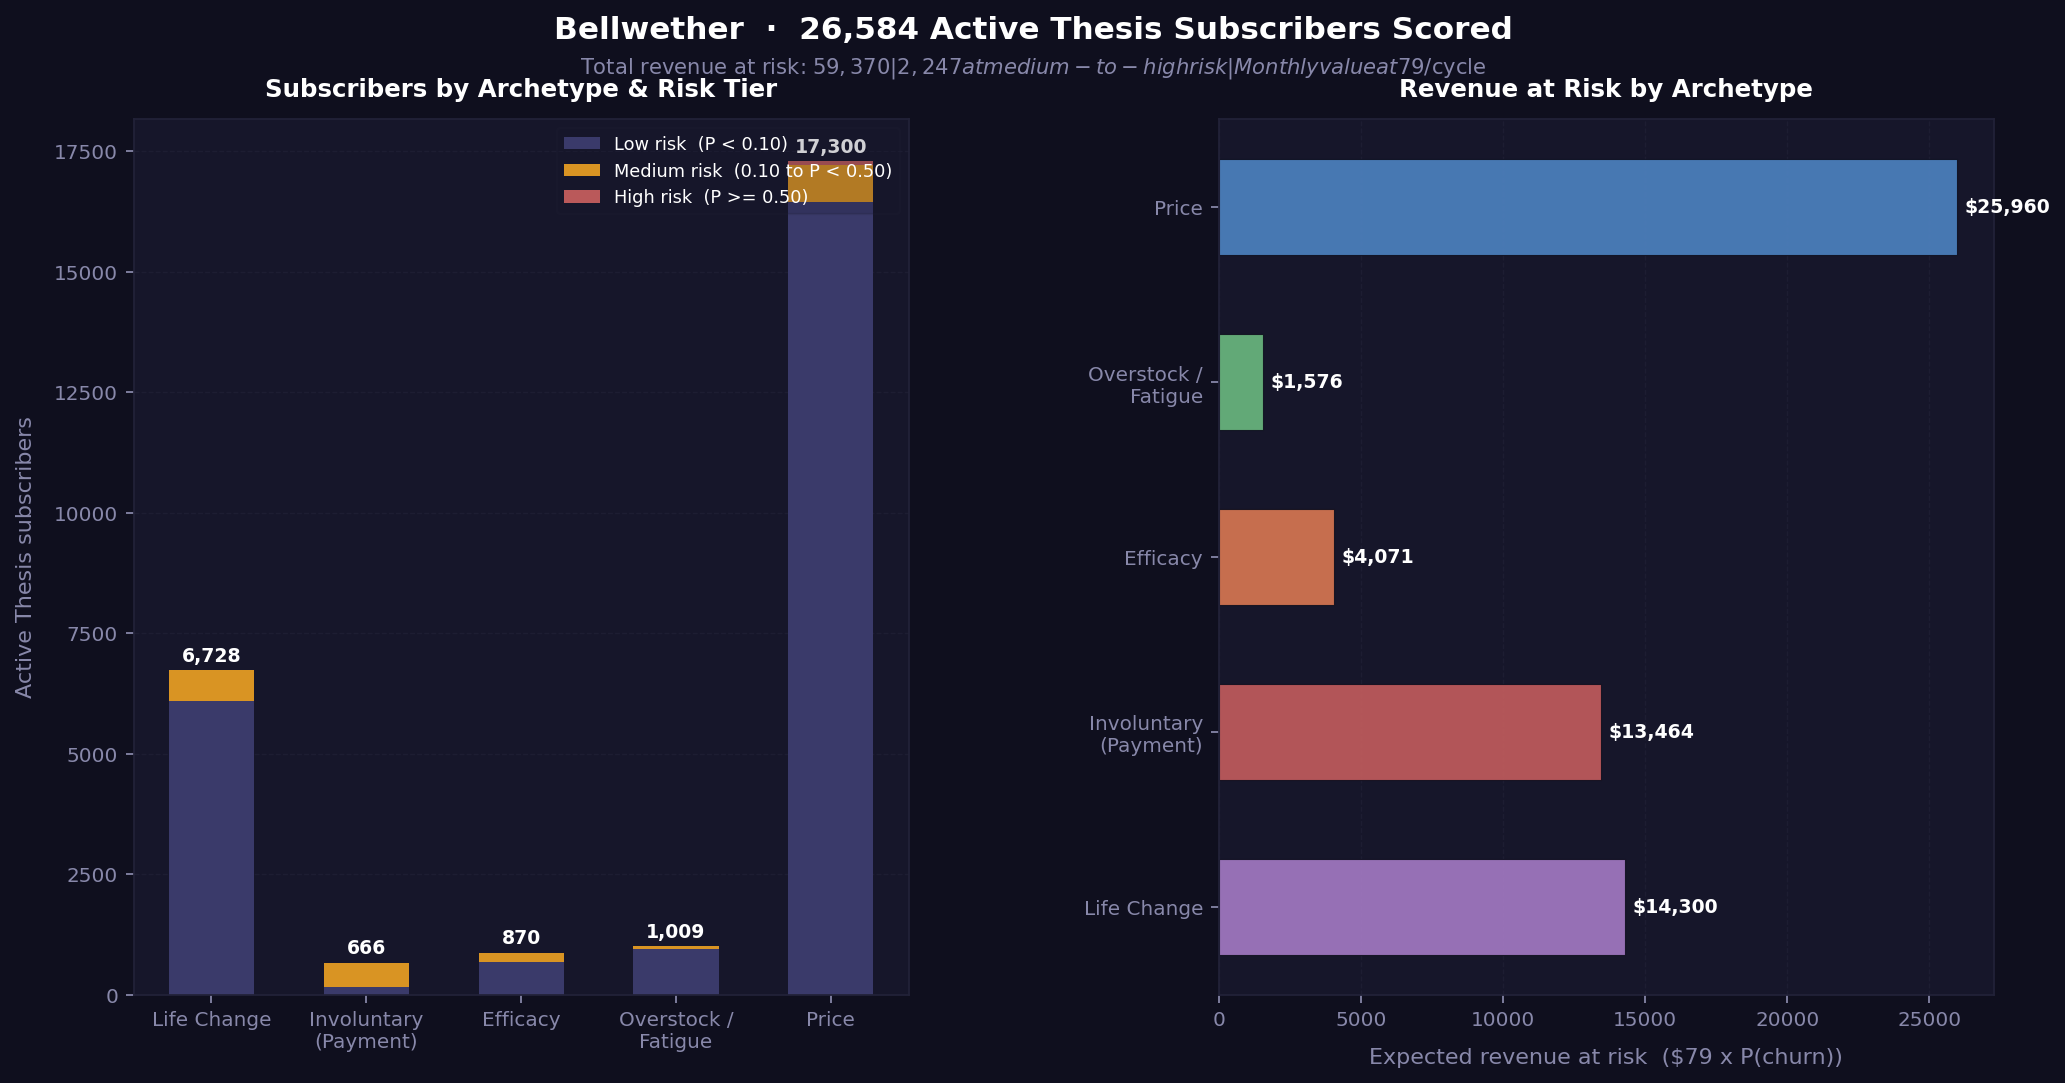
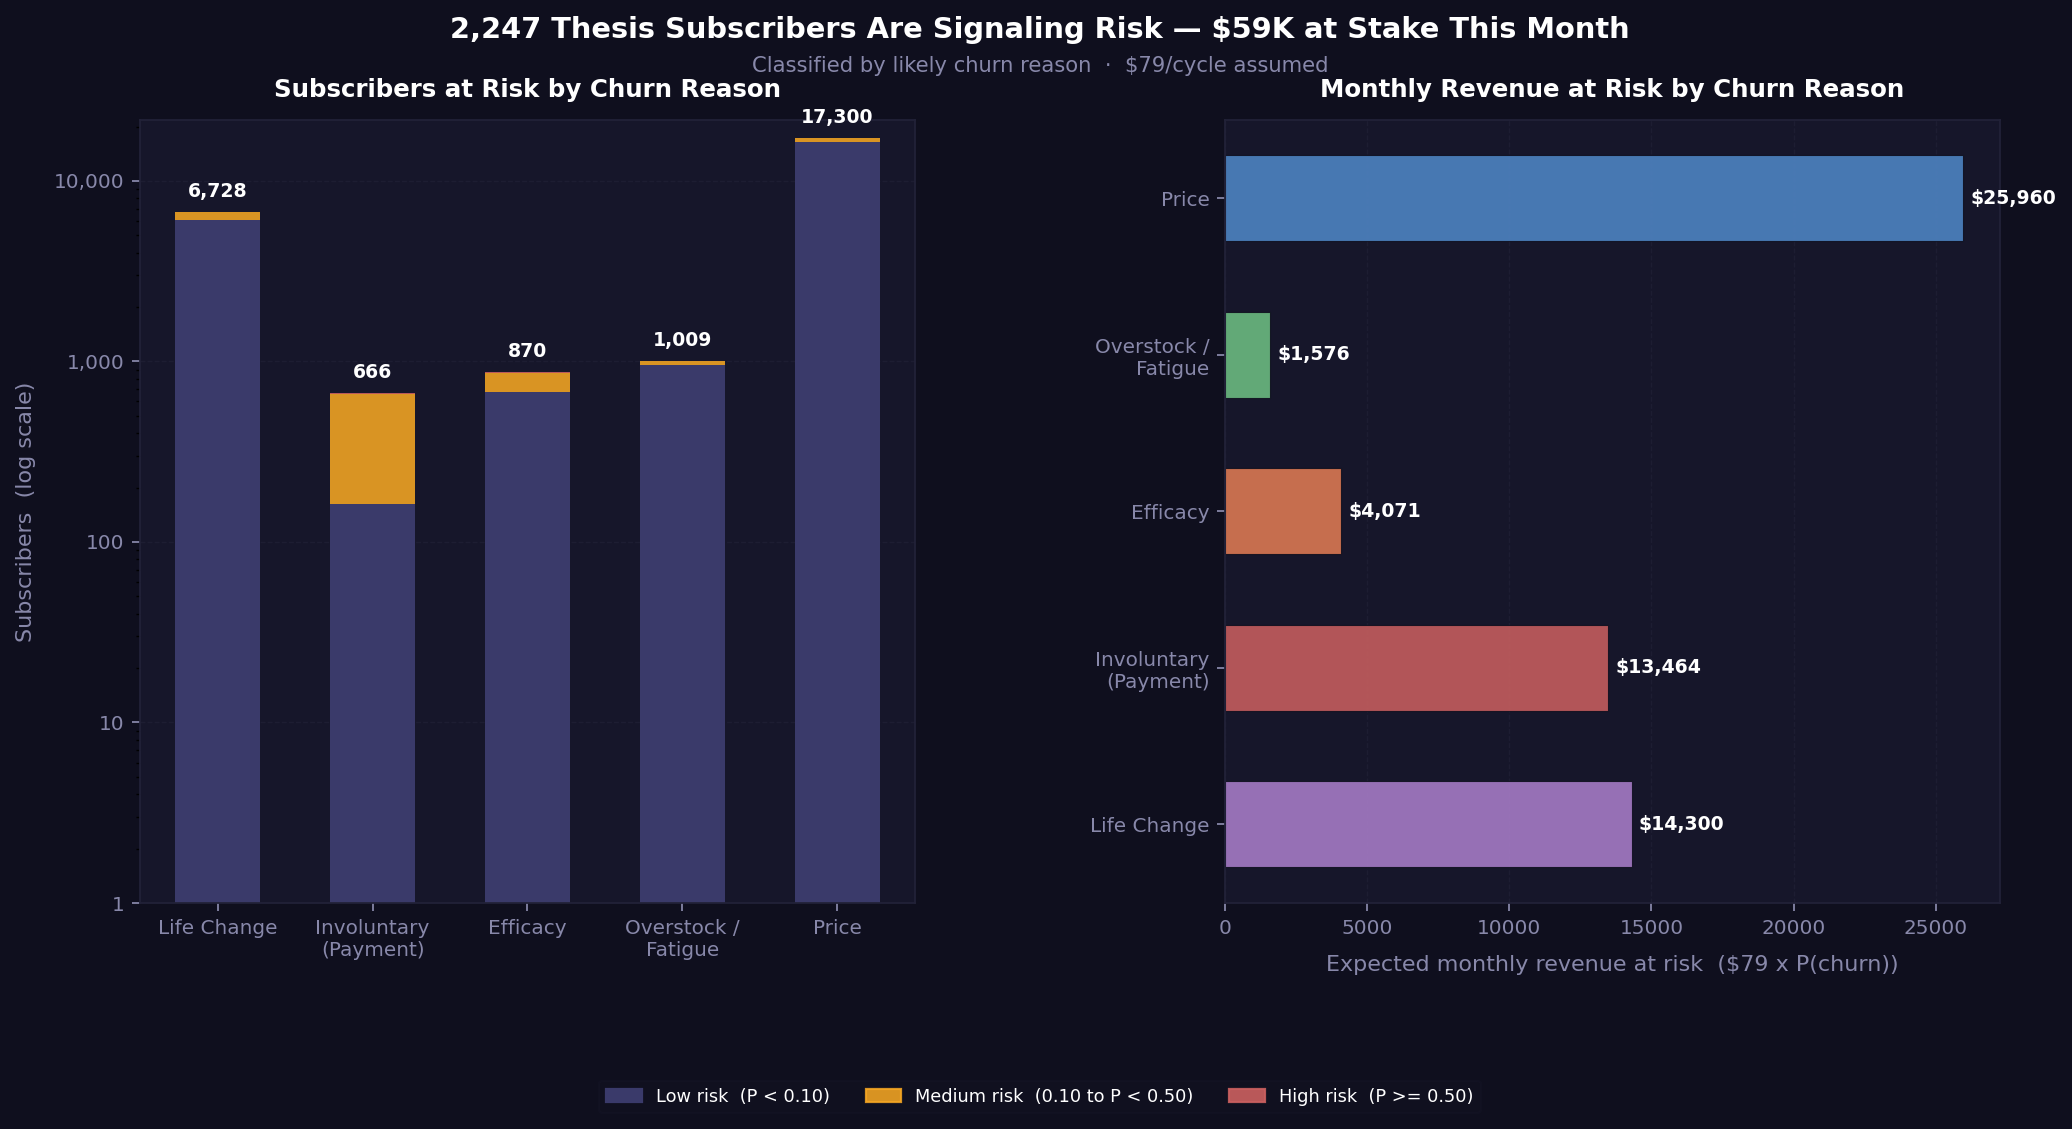
Chart: insight title, log scale, legend below panels
Title: 'X subscribers signaling risk — $Y at stake' (why care, not sample N)
Subtitle: one clean line, no italics clutter
Legend: moved below both panels, no longer overlapping Price bar
Left panel: log scale handles 17K vs 666 span without hiding small archetypes
LEGEND_POSITION and PANEL1_LOG_SCALE are configurable in make_chart.py

diff --git a/docs/make_chart.py b/docs/make_chart.py
@@ -31,22 +31,27 @@ FIG_SIZE = (15, 7.2)
 PANEL_GAP = 0.40
 
 # Title & subtitle
-TITLE         = "Bellwether  ·  26,584 Active Thesis Subscribers Scored"
-TITLE_SIZE    = 14
+TITLE         = "2,247 Thesis Subscribers Are Signaling Risk — $59K at Stake This Month"
+TITLE_SIZE    = 13
 TITLE_Y       = 0.97       # 0 = bottom of figure, 1 = top
 
+SUBTITLE      = "Classified by likely churn reason  ·  $79/cycle assumed"
 SUBTITLE_SIZE = 9.5
 SUBTITLE_Y    = 0.935
 
 # Panel titles
-PANEL1_TITLE = "Subscribers by Archetype & Risk Tier"
-PANEL2_TITLE = "Revenue at Risk by Archetype"
+PANEL1_TITLE = "Subscribers at Risk by Churn Reason"
+PANEL2_TITLE = "Monthly Revenue at Risk by Churn Reason"
 PANEL_TITLE_SIZE = 11
 
 # Axis labels
-PANEL1_YLABEL = "Active Thesis subscribers"
-PANEL2_XLABEL = "Expected revenue at risk  ($79 x P(churn))"
-AXIS_LABEL_SIZE = 10
+PANEL1_YLABEL      = "Subscribers  (log scale)"
+PANEL1_LOG_SCALE   = True   # log scale handles Price (17K) vs Involuntary (666) gap
+PANEL2_XLABEL      = "Expected monthly revenue at risk  ($79 x P(churn))"
+AXIS_LABEL_SIZE    = 10
+
+# Legend position: "inside" (old, overlaps bars) or "below" (recommended)
+LEGEND_POSITION = "below"
 
 # Bar width (0–1; wider = bars touch)
 BAR_WIDTH = 0.55
@@ -123,18 +128,15 @@ else:
 summary = data["summary"]
 totals  = data["totals"]
 
-subtitle = (
-    f"Total revenue at risk: ${totals['revenue_at_risk']:,.0f}"
-    f"   |   {totals['at_risk_medium_high']:,} at medium-to-high risk"
-    f"   |   Monthly value at ${totals['sub_value_assumption']:.0f}/cycle"
-)
+subtitle = SUBTITLE
 
 # ─────────────────────────────────────────────────────────────────────────────
 # CHART
 # ─────────────────────────────────────────────────────────────────────────────
 
 fig, axes = plt.subplots(1, 2, figsize=FIG_SIZE, facecolor=COLOR_BG)
-fig.subplots_adjust(wspace=PANEL_GAP, top=0.88, bottom=0.12)
+fig.subplots_adjust(wspace=PANEL_GAP, top=0.88,
+                    bottom=0.20 if LEGEND_POSITION == "below" else 0.12)
 
 x = np.arange(len(ARCH_ORDER))
 
@@ -155,19 +157,27 @@ ax.bar(x, low_vals,                         BAR_WIDTH, color=COLOR_LOW,    label
 ax.bar(x, med_vals, BAR_WIDTH, bottom=low_vals,                color=COLOR_MEDIUM, label="Medium risk  (0.10 to P < 0.50)", alpha=0.88)
 ax.bar(x, hi_vals,  BAR_WIDTH, bottom=low_vals + med_vals,     color=COLOR_HIGH,   label="High risk  (P >= 0.50)", alpha=0.92)
 
+if PANEL1_LOG_SCALE:
+    ax.set_yscale("log")
+    ax.set_ylim(bottom=1)
+    ax.yaxis.set_major_formatter(plt.FuncFormatter(lambda v, _: f"{int(v):,}"))
+
 for i, arch in enumerate(ARCH_ORDER):
     total = summary[arch]["total"]
     top   = low_vals[i] + med_vals[i] + hi_vals[i]
     if total > 0:
-        ax.text(x[i], top + 100, f"{total:,}", ha="center", va="bottom",
+        offset = top * 1.15 if PANEL1_LOG_SCALE else top + 100
+        ax.text(x[i], offset, f"{total:,}", ha="center", va="bottom",
                 fontsize=VALUE_LABEL_SIZE, color=COLOR_WHITE, fontweight="bold")
 
 ax.set_xticks(x)
 ax.set_xticklabels([ARCH_LABELS[a] for a in ARCH_ORDER], color=COLOR_MUTED, fontsize=TICK_LABEL_SIZE)
 ax.set_ylabel(PANEL1_YLABEL, color=COLOR_MUTED, fontsize=AXIS_LABEL_SIZE, labelpad=8)
 ax.set_title(PANEL1_TITLE, color=COLOR_WHITE, fontsize=PANEL_TITLE_SIZE, fontweight="bold", pad=10)
-ax.legend(fontsize=LEGEND_SIZE, framealpha=0.2, facecolor=COLOR_PANEL,
-          edgecolor=COLOR_GRID, labelcolor=COLOR_WHITE, loc="upper right")
+
+if LEGEND_POSITION == "inside":
+    ax.legend(fontsize=LEGEND_SIZE, framealpha=0.2, facecolor=COLOR_PANEL,
+              edgecolor=COLOR_GRID, labelcolor=COLOR_WHITE, loc="upper right")
 
 # ── Panel 2: horizontal revenue bars ──────────────────────────────────────
 ax2 = axes[1]
@@ -196,6 +206,20 @@ ax2.set_title(PANEL2_TITLE, color=COLOR_WHITE, fontsize=PANEL_TITLE_SIZE, fontwe
 # ── Banner ─────────────────────────────────────────────────────────────────
 fig.text(0.5, TITLE_Y,    TITLE,    ha="center", va="top", fontsize=TITLE_SIZE,    fontweight="bold", color=COLOR_WHITE)
 fig.text(0.5, SUBTITLE_Y, subtitle, ha="center", va="top", fontsize=SUBTITLE_SIZE, color=COLOR_MUTED)
+
+# ── Legend (below both panels if LEGEND_POSITION == "below") ───────────────
+if LEGEND_POSITION == "below":
+    legend_patches = [
+        mpatches.Patch(color=COLOR_LOW,    label="Low risk  (P < 0.10)"),
+        mpatches.Patch(color=COLOR_MEDIUM, label="Medium risk  (0.10 to P < 0.50)", alpha=0.88),
+        mpatches.Patch(color=COLOR_HIGH,   label="High risk  (P >= 0.50)", alpha=0.92),
+    ]
+    fig.legend(handles=legend_patches,
+               loc="lower center", ncol=3,
+               fontsize=LEGEND_SIZE, framealpha=0.15,
+               facecolor=COLOR_PANEL, edgecolor=COLOR_GRID,
+               labelcolor=COLOR_WHITE,
+               bbox_to_anchor=(0.5, 0.01))
 
 # ─────────────────────────────────────────────────────────────────────────────
 # SAVE
